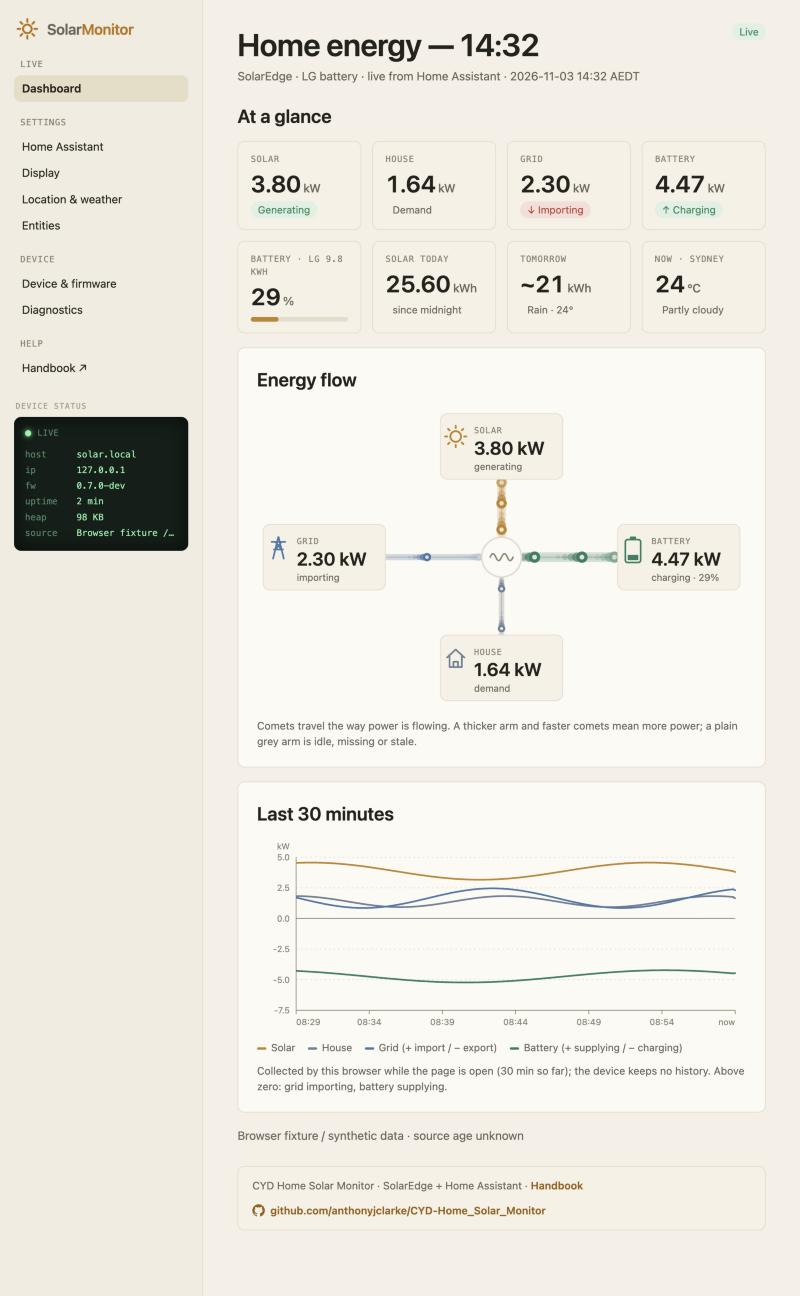
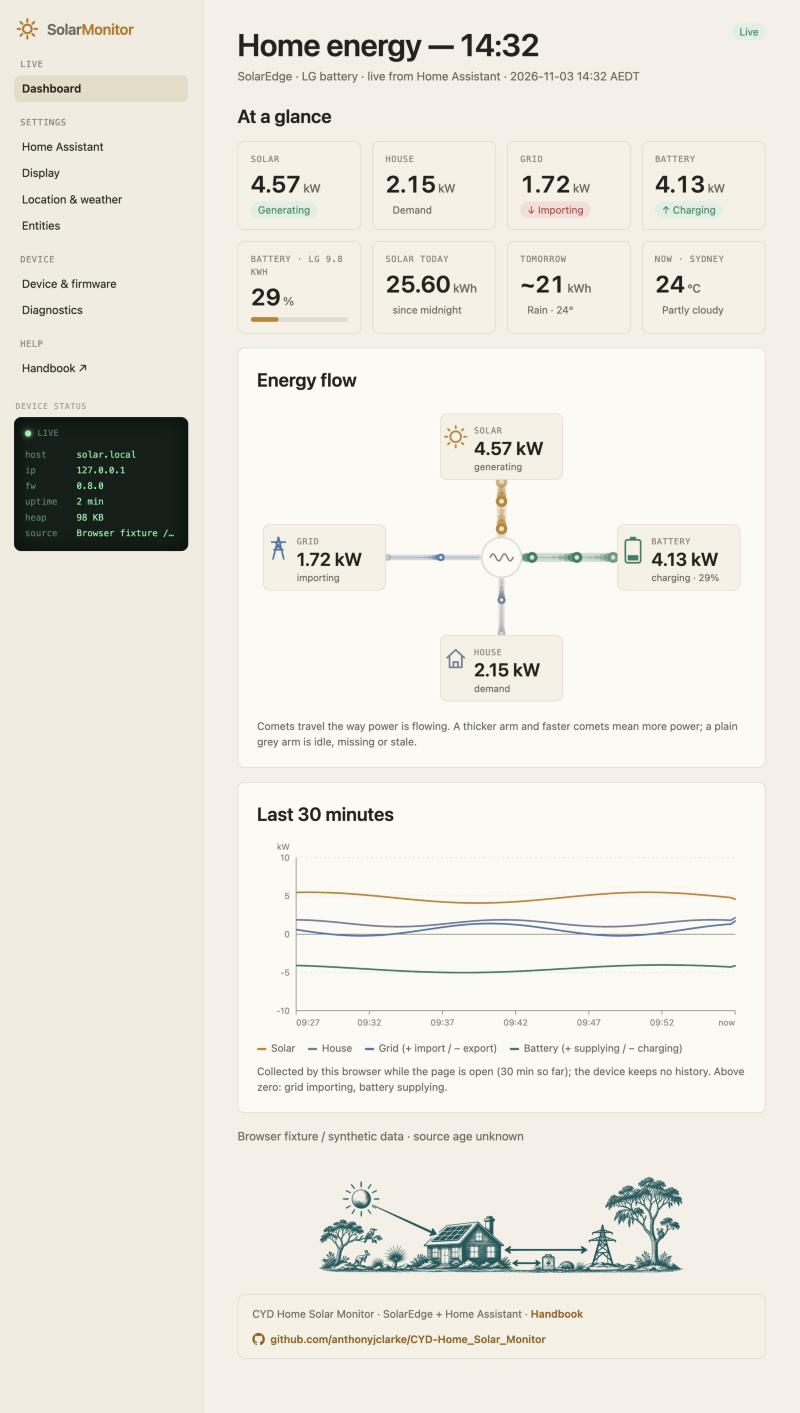
feat(webui): footer artwork and docs sweep; cut v0.8.0
- Australian solar footer illustration served from web/assets with a versioned, cached URL
- Reduce Motion behaviour documented; docs, checklist and all web screenshots refreshed
- Version 0.8.0

diff --git a/docs/index.html b/docs/index.html
@@ -84,7 +84,7 @@ figcaption{color:var(--muted);font-size:14px;margin-top:8px;max-width:780px}
 <main>
 <header class="hero">
 <h1>CYD Home Solar Monitor</h1>
-<p>Handbook for firmware <code>0.7.0</code>: installing, configuring, and reading the 2.8-inch ESP32-2432S028R (CYD) home energy display. The panel shows solar, house, grid and battery power for a <b>SolarEdge</b> inverter and battery, read from <b>Home Assistant</b> through the <b>SolarEdge Modbus Multi</b> integration. It was built on a SolarEdge SE6000 with an LG 9.8 kWh battery.</p>
+<p>Handbook for firmware <code>0.8.0</code>: installing, configuring, and reading the 2.8-inch ESP32-2432S028R (CYD) home energy display. The panel shows solar, house, grid and battery power for a <b>SolarEdge</b> inverter and battery, read from <b>Home Assistant</b> through the <b>SolarEdge Modbus Multi</b> integration. It was built on a SolarEdge SE6000 with an LG 9.8 kWh battery.</p>
 <p>Source: <a href="https://github.com/anthonyjclarke/CYD-Home_Solar_Monitor">github.com/anthonyjclarke/CYD-Home_Solar_Monitor</a> · Installer: <a href="https://anthonyjclarke.github.io/CYD-Home_Solar_Monitor/">anthonyjclarke.github.io/CYD-Home_Solar_Monitor</a></p>
 </header>
 
@@ -272,8 +272,8 @@ pio device monitor -b 115200 --port /dev/cu.usbserial-10</pre>
 <h2 id="browser">Browser dashboard</h2>
 <p>Open <code>http://solar.local/</code> from any device on the home network. The page follows your system's light or dark setting and refreshes every three seconds. The sidebar groups the sections: <b>Live</b> (Dashboard), <b>Settings</b> (Home Assistant, Display, Location &amp; weather, Entities) and <b>Device</b> (Device &amp; firmware, Diagnostics) and <b>Help</b>, which opens this handbook from the device itself at <code>http://solar.local/guide/</code>, so it works without internet. A banner at the foot of the dashboard links to this project on GitHub. Beneath the sidebar, the <b>Device status</b> panel shows a status light (green live, amber waiting or demo, red disconnected) with the address, firmware, uptime, free memory and the source message.</p>
 <figure class="shot"><img src="images/webui-dashboard.jpg" alt="Browser dashboard"><figcaption><b>At a glance.</b> Tiles for solar, house, grid and battery power, battery level (bar coloured like the panel gauge), solar today, tomorrow's forecast and the current weather. Pills give direction: <span style="color:#C0392B">↓ Importing</span>, <span style="color:#1F8A5B">↑ Exporting</span>, <span style="color:#1F8A5B">↑ Charging</span>, ↓ Supplying house. Green and red are kept for meaning, as in SpendAnalysis; amber is only used for controls.</figcaption></figure>
-<figure class="shot"><img src="images/webui-flow.jpg" alt="Energy flow diagram with comets on each arm"><figcaption><b>Energy flow.</b> Solar, grid, battery and house around the inverter hub. Comets travel each arm the way power flows; the arm gets thicker and its comets faster and larger as power rises. A plain grey arm is idle, missing or stale. The hub's sine wave marks the inverter, and the battery icon fills to the battery level.</figcaption></figure>
-<figure class="shot"><img src="images/webui-chart.jpg" alt="Last 30 minutes chart and the dashboard footer"><figcaption><b>Last 30 minutes</b> charts solar, house, grid (+ import / − export) and battery (+ supplying / − charging) against a kW Y axis and an X axis of local clock times every 5 minutes, ending at <i>now</i>. The solid line is zero: above it the grid is importing and the battery supplying. Samples are collected by this browser while the page is open; the device keeps no history, so the chart fills from the right. The banner beneath links to this handbook and to the project on GitHub.</figcaption></figure>
+<figure class="shot"><img src="images/webui-flow.jpg" alt="Energy flow diagram with comets on each arm"><figcaption><b>Energy flow.</b> Solar, grid, battery and house around the inverter hub. Comets travel each arm the way power flows; the arm gets thicker and its comets faster and larger as power rises. A plain grey arm is idle, missing or stale. The hub's sine wave marks the inverter, and the battery icon fills to the battery level. If your device has <b>Reduce Motion</b> turned on (iPhone and iPad: Settings → Accessibility → Motion; Mac: System Settings → Accessibility → Display; Windows and Android have an equivalent), the comets stay still, parked near the end of each pipe and pointing the way power flows. That is deliberate.</figcaption></figure>
+<figure class="shot"><img src="images/webui-chart.jpg" alt="Last 30 minutes chart and the dashboard footer"><figcaption><b>Last 30 minutes</b> charts solar, house, grid (+ import / − export) and battery (+ supplying / − charging) against a kW Y axis and an X axis of local clock times every 5 minutes, ending at <i>now</i>. The solid line is zero: above it the grid is importing and the battery supplying. Samples are collected by this browser while the page is open; the device keeps no history, so the chart fills from the right. Beneath it sits a decorative illustration of the system (sun, rooftop panels, house, grid and battery, with Australian plants and wildlife), then a banner linking to this handbook and to the project on GitHub.</figcaption></figure>
 <figure class="shot"><img src="images/webui-diagnostics.jpg" alt="Diagnostics table"><figcaption><b>Diagnostics.</b> Every reading with its entity, value, validity, freshness, and received and reported ages, plus the raw status JSON.</figcaption></figure>
 <p><b>Device &amp; firmware</b> shows the firmware version, address, local time, uptime and free memory, and has <b>Restart device</b> and <b>Reset Wi-Fi</b> (clears Wi-Fi only; Home Assistant settings stay). <b>Firmware update</b> takes the app <code>firmware.bin</code> only; the device pauses Home Assistant reads while uploading and restarts when done.</p>
 
@@ -290,7 +290,7 @@ pio device monitor -b 115200 --port /dev/cu.usbserial-10</pre>
 <tr><td>Dim overnight</td><td>on</td><td>Uses Night starts / Night ends (hours 0–23). Equal hours disable it.</td></tr>
 <tr><td>Solar energy today</td><td>blank</td><td>Optional <code>sensor.</code> in kWh/Wh/MWh, read every 60 s, shown while received within 10 min.</td></tr>
 <tr><td>Solar forecast tomorrow</td><td>blank</td><td>Optional <code>sensor.</code> in kWh; same timing.</td></tr>
-<tr><td>Panel layout</td><td>Centre flow (light)</td><td>Or Cards (dark). Applies immediately.</td></tr>
+<tr><td>Layout</td><td>Centre flow (light)</td><td>Or Cards (dark), under Settings → Display. Applies immediately.</td></tr>
 <tr><td>Battery label</td><td><code>LG 9.8 kWh</code></td><td>Up to 14 characters; shown on the cards layout and in the browser.</td></tr>
 </tbody></table>
 <figure class="shot"><img src="images/webui-location.jpg" alt="Location, timezone and weather settings"><figcaption>Settings → Location &amp; weather.</figcaption></figure>
@@ -348,6 +348,7 @@ pio device monitor -b 115200 --port /dev/cu.usbserial-10</pre>
 <tr><td><code>solar.local</code> doesn't open</td><td>The client may not support mDNS; tap the panel and use the IP address.</td></tr>
 <tr><td><code>[WEATHER] error=http-or-transport</code></td><td>No internet, or the TLS check failed; it retries every five minutes.</td></tr>
 <tr><td>Clock wrong by hours</td><td>Check the POSIX TZ rule in the location settings.</td></tr>
+<tr><td>Energy flow on the web page doesn't move</td><td>The device has Reduce Motion turned on, so the comets are deliberately still. Turn it off in the device's accessibility settings if you want the animation.</td></tr>
 <tr><td>Taps land in the wrong place</td><td>Recalibrate: tap to open setup, hold for two seconds.</td></tr>
 </tbody></table>
 

diff --git a/src/web/web_page.h b/src/web/web_page.h
@@ -67,7 +67,9 @@ code{font:12.5px ui-monospace,Menlo,monospace;background:var(--tile);padding:1px
 details summary{cursor:pointer;color:var(--accent-ink);margin-top:14px}pre{font:12px ui-monospace,Menlo,monospace;white-space:pre-wrap;overflow-wrap:anywhere;color:var(--muted)}
 #message{position:fixed;right:22px;bottom:22px;background:var(--ink);color:var(--bg);padding:11px 16px;border-radius:9px;display:none;max-width:420px;z-index:5;box-shadow:0 6px 24px rgba(0,0,0,.18)}
 .hidden{display:none}
-.foot{display:flex;justify-content:space-between;align-items:center;gap:12px;flex-wrap:wrap;margin:28px 0 0;padding:14px 18px;border:1px solid var(--line);border-radius:9px;background:var(--tile);color:var(--muted);font-size:13.5px}
+.art{margin:28px 0 0}.art img{display:block;width:min(100%,480px);height:auto;margin:0 auto}
+@media(prefers-color-scheme:dark){.art img{filter:invert(.82) hue-rotate(180deg)}}
+.foot{display:flex;justify-content:space-between;align-items:center;gap:12px;flex-wrap:wrap;margin:4px 0 0;padding:14px 18px;border:1px solid var(--line);border-radius:9px;background:var(--tile);color:var(--muted);font-size:13.5px}
 .foot a{color:var(--accent-ink);font-weight:600;text-decoration:none;display:inline-flex;align-items:center;gap:7px}.foot a:hover{text-decoration:underline}
 @media(max-width:980px){.tiles{grid-template-columns:repeat(2,minmax(0,1fr))}}
 @media(max-width:760px){.app{display:block}aside{position:static;height:auto;border-right:0;border-bottom:1px solid var(--line);padding:14px 16px}
@@ -128,6 +130,7 @@ main{padding:20px 16px 60px}h1{font-size:30px}.row{grid-template-columns:1fr}.ti
 <div class="legend"><span><i style="background:var(--solar)"></i>Solar</span><span><i style="background:var(--house)"></i>House</span><span><i style="background:var(--grid)"></i>Grid (+ import / &minus; export)</span><span><i style="background:var(--battery)"></i>Battery (+ supplying / &minus; charging)</span></div>
 <p class="note" id="trendNote">Collected by this browser while the page is open; the device keeps no history.</p></div>
 <p class="cap" id="sourceStatus">Waiting for device status&hellip;</p>
+<footer class="art"><img src="/assets/solar-footer.webp?v=1" alt="" aria-hidden="true" width="1600" height="533" loading="lazy" decoding="async"></footer>
 <div class="foot"><span>CYD Home Solar Monitor &middot; SolarEdge + Home Assistant &middot; <a href="/guide/" target="_blank" rel="noopener">Handbook</a></span>
 <a href="https://github.com/anthonyjclarke/CYD-Home_Solar_Monitor" target="_blank" rel="noopener"><svg width="16" height="16" viewBox="0 0 16 16" aria-hidden="true" fill="currentColor"><path d="M8 0C3.58 0 0 3.58 0 8c0 3.54 2.29 6.53 5.47 7.59.4.07.55-.17.55-.38v-1.33c-2.23.48-2.7-1.07-2.7-1.07-.36-.92-.89-1.17-.89-1.17-.73-.5.06-.49.06-.49.8.06 1.23.83 1.23.83.72 1.22 1.87.87 2.33.66.07-.52.28-.87.5-1.07-1.78-.2-3.65-.89-3.65-3.95 0-.87.31-1.59.82-2.15-.08-.2-.36-1.02.08-2.12 0 0 .67-.21 2.2.82A7.6 7.6 0 0 1 8 3.9c.68 0 1.36.09 2 .27 1.53-1.04 2.2-.82 2.2-.82.44 1.1.16 1.92.08 2.12.51.56.82 1.28.82 2.15 0 3.07-1.87 3.75-3.66 3.95.29.25.54.73.54 1.48v2.2c0 .21.15.46.55.38A8 8 0 0 0 16 8c0-4.42-3.58-8-8-8z"/></svg>github.com/anthonyjclarke/CYD-Home_Solar_Monitor</a></div>
 </section>

diff --git a/tools/embed_docs.py b/tools/embed_docs.py
@@ -1,7 +1,8 @@
 # PlatformIO pre-build script: embeds docs/index.html and the images it uses
-# into src/web/handbook_data.h, served by the device at /guide/.
-# Text assets are gzipped; JPEGs are stored as-is. The header is generated
-# (gitignored) and only rewritten when its content changes.
+# (served at /guide/) and every file in web/assets/ (served at /assets/) into
+# src/web/handbook_data.h. Text assets are gzipped; images that are already
+# compressed are stored as-is. The header is generated (gitignored) and only
+# rewritten when its content changes.
 import gzip
 import re
 from pathlib import Path
@@ -13,16 +14,20 @@ except NameError:
     ROOT = Path(__file__).resolve().parent.parent
 
 DOCS = ROOT / "docs"
+WEB_ASSETS = ROOT / "web" / "assets"
 OUT = ROOT / "src" / "web" / "handbook_data.h"
-TYPES = {".html": "text/html", ".svg": "image/svg+xml", ".png": "image/png", ".jpg": "image/jpeg"}
+TYPES = {".html": "text/html", ".svg": "image/svg+xml", ".png": "image/png", ".jpg": "image/jpeg", ".webp": "image/webp"}
+PACKED = {".html", ".svg"}
 
 
 def assets():
     page = (DOCS / "index.html").read_text(encoding="utf-8")
     names = sorted(set(re.findall(r'src="(images/[\w.-]+)"', page)))
-    yield "index.html", (DOCS / "index.html").read_bytes()
+    yield "/guide/", "index.html", (DOCS / "index.html").read_bytes()
     for name in names:
-        yield name, (DOCS / name).read_bytes()
+        yield "/guide/" + name, name, (DOCS / name).read_bytes()
+    for path in sorted(WEB_ASSETS.glob("*")) if WEB_ASSETS.is_dir() else []:
+        yield "/assets/" + path.name, path.name, path.read_bytes()
 
 
 def main():
@@ -30,13 +35,12 @@ def main():
              "#include <Arduino.h>", "", "namespace handbook {",
              "struct Asset { const char* path; const char* type; const uint8_t* data; size_t size; bool gzip; };"]
     table = []
-    for i, (name, data) in enumerate(assets()):
+    for i, (url, name, data) in enumerate(assets()):
         ext = Path(name).suffix
-        packed = ext != ".jpg" and ext != ".png"
+        packed = ext in PACKED
         body = gzip.compress(data, 9, mtime=0) if packed else data
         lines.append("const uint8_t a%d[] PROGMEM = {%s};" % (i, ",".join(str(b) for b in body)))
-        table.append('{"/guide/%s","%s",a%d,%d,%s}' % ("" if name == "index.html" else name, TYPES[ext], i, len(body),
-                                                       "true" if packed else "false"))
+        table.append('{"%s","%s",a%d,%d,%s}' % (url, TYPES[ext], i, len(body), "true" if packed else "false"))
     lines.append("const Asset assets[] = {%s};" % ",".join(table))
     lines.append("constexpr size_t count = sizeof(assets) / sizeof(assets[0]);")
     lines.append("}  // namespace handbook")

diff --git a/tools/preview_server.py b/tools/preview_server.py
@@ -20,7 +20,7 @@ CONFIG = {
 
 class Handler(BaseHTTPRequestHandler):
     def send(self, value, content_type="application/json", code=200):
-        data = json.dumps(value).encode() if content_type == "application/json" else value.encode()
+        data = json.dumps(value).encode() if content_type == "application/json" else value if isinstance(value, bytes) else value.encode()
         self.send_response(code)
         self.send_header("Content-Type", content_type)
         self.send_header("Cache-Control", "no-store")
@@ -51,7 +51,7 @@ class Handler(BaseHTTPRequestHandler):
                                  "unit": "%" if i == 4 else "W", "receivedAgeSeconds": 1})
             return self.send({"demo": False, "complete": True, "reportTimeKnown": False,
                               "skewSeconds": 0, "weather": {"configured": True, "place": CONFIG["place"], "valid": True, "fresh": True, "nowC": 23.5, "nowCode": 2, "tomorrowMaxC": 24, "tomorrowCode": 61, "ageSeconds": 60}, "localTime": "2026-11-03 14:32 AEDT", "totals": {"today": {"entity": CONFIG["today"], "value": 25.6, "valid": True, "fresh": True}, "tomorrow": {"entity": CONFIG["forecast"], "value": 21, "valid": True, "fresh": True}}, "skewLimitSeconds": 10, "battery": CONFIG["battery"], "message": "Browser fixture / synthetic data",
-                              "project": "CYD-Home-Solar-Monitor", "version": "0.8.0-dev",
+                              "project": "CYD-Home-Solar-Monitor", "version": "0.8.0",
                               "ip": "127.0.0.1", "uptimeSeconds": 120, "freeHeap": 100000,
                               "readings": readings})
         if self.path.startswith("/images/"):
@@ -60,6 +60,8 @@ class Handler(BaseHTTPRequestHandler):
                             "night-preview.svg", "stale-preview.svg", "setup-preview.svg"}:
                 return self.send({"error": "Not found"}, code=404)
             return self.send((ROOT / "docs/images" / name).read_text(), "image/svg+xml")
+        if self.path.split("?")[0] == "/assets/solar-footer.webp":
+            return self.send((ROOT / "web/assets/solar-footer.webp").read_bytes(), "image/webp")
         self.send({"error": "Not found"}, code=404)
 
     def do_POST(self):

diff --git a/src/web/monitor_web.cpp b/src/web/monitor_web.cpp
@@ -219,10 +219,13 @@ void begin() {
         if(!uploadOK) { error(updateError.isEmpty()?"No firmware uploaded":updateError.c_str());return; }
         server.send(200,"application/json","{\"updated\":true}");requestReboot();
     },uploadChunk);
-    // Handbook from docs/, embedded at build time by tools/embed_docs.py.
+    // Handbook (docs/) and web assets (web/assets/), embedded at build time by
+    // tools/embed_docs.py. The page links /assets/ files with a ?v= version, so
+    // browsers may keep them; the handbook changes with each firmware.
     for (size_t i=0;i<handbook::count;++i) server.on(handbook::assets[i].path,HTTP_GET,[i]{
         const auto& a=handbook::assets[i];
-        server.sendHeader("Cache-Control","no-cache");  // Content changes with each firmware.
+        const bool versioned=strncmp(a.path,"/assets/",8)==0;
+        server.sendHeader("Cache-Control",versioned ? "public, max-age=31536000, immutable" : "no-cache");
         if (a.gzip) server.sendHeader("Content-Encoding","gzip");
         server.send_P(200,a.type,reinterpret_cast<PGM_P>(a.data),a.size);
     });

diff --git a/tools/render_preview.cpp b/tools/render_preview.cpp
@@ -43,7 +43,7 @@ int main(int argc,char**argv) {
     SvgCanvas c;
     const char* head="<svg xmlns='http://www.w3.org/2000/svg' width='960' height='720' viewBox='0 0 320 240'><style>text{font-family:DejaVu Sans,sans-serif}</style>\n";
     if(argc>1&&std::string(argv[1])=="boot") {  // boot <layout>: sample start-up screen after Wi-Fi connects.
-        ui::BootView b;b.layout=argc>2?static_cast<ui::Layout>(std::atoi(argv[2])):ui::Centre;b.version="v0.7.0";
+        ui::BootView b;b.layout=argc>2?static_cast<ui::Layout>(std::atoi(argv[2])):ui::Centre;b.version="v0.8.0";
         b.rows[0]={"Wi-Fi","Connected - HomeNetwork",ui::BootOk};b.rows[1]={"IP address","192.168.1.95",ui::BootInfo};
         b.rows[2]={"Web page","http://solar.local/",ui::BootInfo};b.rows[3]={"Signal","-37 dBm (excellent)",ui::BootInfo};
         b.rows[4]={"Home Asst","192.168.1.254:8123",ui::BootInfo};b.rows[5]={"Clock","17:08 AEDT - synced",ui::BootOk};

diff --git a/include/config.h b/include/config.h
@@ -1,7 +1,7 @@
 #pragma once
 
 #define PROJECT_NAME "CYD-Home-Solar-Monitor"
-#define FIRMWARE_VERSION "0.8.0-dev"
+#define FIRMWARE_VERSION "0.8.0"
 #define IMPROV_SETUP_ENABLED 1
 #define IMPROV_DEVICE_PREFIX "CYD-Solar"
 #define APP_DEFAULT_DEBUG_LEVEL 3

diff --git a/docs/HARDWARE_VALIDATION.md b/docs/HARDWARE_VALIDATION.md
@@ -1,6 +1,6 @@
 # Hardware Validation
 
-Firmware `0.7.0`. Build and portable model checks pass, and the firmware runs on the owner's panel with live Home Assistant data. Unchecked items below still need a check on a real CYD.
+Firmware `0.8.0`. Build and portable model checks pass, and the firmware runs on the owner's panel with live Home Assistant data. Unchecked items below still need a check on a real CYD.
 
 ---
 
@@ -24,8 +24,8 @@ The browser fixture uses synthetic data. Its success does not validate device au
 
 - [ ] Fresh USB flash starts with readable, correctly coloured 320 × 240 output.
 - [ ] Panel colours match `docs/images/flow-preview.png` (navy cards, not green); the palette is RGB332-exact.
-- [ ] Centre-flow layout matches `docs/images/centre-flow-preview.png`; chevrons move toward/away from the hub correctly for import/export and charge/supply.
-- [ ] Switching **Panel layout** in the browser changes the panel immediately and persists across restart.
+- [ ] Centre-flow layout matches `docs/images/centre-flow-preview.png`; comets move toward/away from the hub correctly for import/export and charge/supply, smoothly at 20 fps.
+- [ ] Switching **Settings → Display → Layout** in the browser changes the panel immediately and persists across restart.
 - [x] Boot screen shows Wi-Fi, IP, signal, HA and clock, and closes about 6.4 s after boot when Wi-Fi connects; readings are live by then (first poll at 2 s).
 - [ ] Boot screen readable by eye; a tap skips it; with Wi-Fi unavailable it closes at 15 s onto the Wi-Fi setup page.
 - [ ] Setup page refreshes once per second without visible flashing.
@@ -63,6 +63,7 @@ The browser fixture uses synthetic data. Its success does not validate device au
 - [ ] Place search fills latitude, longitude, timezone and POSIX rule; saving changes the clock immediately.
 - [x] `[WEATHER]` shows HTTP 200 after boot (fetch ≈7.6 s, no watchdog reset). Still to check: repeats about every 30 minutes; icons match conditions.
 - [ ] Weather survives an HA outage and clears when the location is cleared.
+- [ ] Web page stays responsive while the panel animates at 20 fps (page loads typically 0.3–0.7 s).
 - [x] Free heap healthy across a weather TLS fetch (`min_heap` 53 KB, idle heap ~114–122 KB). Still to check over hours.
 - [ ] Battery gauge fill and colour match state of energy (green ≥ 50%, amber ≥ 20%, red below).
 - [ ] Daily solar total matches the HA Energy dashboard and resets at local midnight.
@@ -78,9 +79,9 @@ The browser fixture uses synthetic data. Its success does not validate device au
 - [ ] Updating a 0.1.0 device preserves its token, URL and first five entity mappings and supplies the new DC default.
 - [ ] Saving migrated settings retains all six mappings after a subsequent restart.
 - [ ] Blank token preserves the saved value; explicit clear removes it.
-- [x] `solar.local` resolves on the Mac and the request-header guard returns 403 without the header. Still to check: `http://solar.local/` opens from an iPhone; browser changes work without a login and are refused without the `X-CYD-Request` header.
-- [ ] Panel matches `docs/images/centre-flow-preview.png`: SOLAR/GRID/BATTERY/HOUSE labels readable, no overlaps.
-- [ ] Web UI: flow-diagram arrows match real import/export and charge/supply; light/dark follow the browser; Save works from every settings section.
+- [x] `solar.local` resolves on the Mac and the request-header guard returns 403 without the header. `http://solar.local/` opens from an iPhone (owner, 04-11-2026). Still to check: browser changes work without a login and are refused without the `X-CYD-Request` header.
+- [x] Panel matches `docs/images/centre-flow-preview.png`: SOLAR/GRID/BATTERY/HOUSE labels readable, no overlaps, even pipe gaps (owner, 04-11-2026).
+- [ ] Web UI: flow-diagram comets match real import/export and charge/supply (still, by design, with Reduce Motion on); light/dark follow the browser; Save works from every settings section.
 - [ ] Night dimming follows Sydney time; touch restores brightness for a minute.
 - [ ] Wi-Fi reset preserves HA settings and returns to setup after restart.
 - [ ] Browser app update succeeds and preserves settings/calibration.
@@ -93,8 +94,8 @@ The browser fixture uses synthetic data. Its success does not validate device au
 
 ## Browser installer release
 
-- [ ] Create/configure the remote repository and Pages only when requested.
-- [ ] Build a credential-free CI release on a `v*` tag on `main`.
+- [x] Create/configure the remote repository and Pages only when requested.
+- [x] Build a credential-free CI release on a `v*` tag on `main` (v0.6.0, v0.7.0).
 - [ ] Fresh browser installation provisions Wi-Fi and reports the expected project identity.
 - [ ] Reconnecting recognises the same firmware and offers an update preserving NVS.
 

diff --git a/README.md b/README.md
@@ -4,7 +4,7 @@ A home energy-flow display for the 2.8″ ESP32 "Cheap Yellow Display" (ESP32-24
 
 It is built for a **SolarEdge inverter with a battery and energy meter**, read by **Home Assistant** through the **[SolarEdge Modbus Multi](https://github.com/WillCodeForCats/solaredge-modbus-multi)** integration. It was developed on a SolarEdge SE6000 with an LG 9.8 kWh battery. The panel shows Home Assistant's sensors, so without that setup it can only run in demo mode.
 
-Version `0.7.0` · [Install in your browser](https://anthonyjclarke.github.io/CYD-Home_Solar_Monitor/) · [Handbook](docs/index.html) · [Changelog](CHANGELOG.md)
+Version `0.8.0` · [Install in your browser](https://anthonyjclarke.github.io/CYD-Home_Solar_Monitor/) · [Handbook](docs/index.html) · [Changelog](CHANGELOG.md)
 
 | Centre flow (light, default)                                     | Cards (dark)                                     |
 |:----------------------------------------------------------------:|:------------------------------------------------:|
@@ -16,13 +16,14 @@ Both layouts show the same readings. Switch between them in the browser under **
 
 ## Features
 
-- **Two panel layouts.** Centre flow (light, the default) has the four flows meeting at the inverter, with moving arrows showing direction. Cards (dark) shows the same readings as four cards. Choose either in the web UI under **Settings → Display → Layout**.
+- **Two panel layouts.** Centre flow (light, the default) has the four flows meeting at the inverter, with comets travelling along each pipe the way power flows. Cards (dark) shows the same readings as four cards. Choose either in the web UI under **Settings → Display → Layout**.
 - **Battery at a glance.** A gauge filled to the state of energy turns amber below 50% and red below 20%. The status line says when it's a good time to use power.
 - **Optional extras:** today's solar kWh, tomorrow's solar forecast, and weather from Open-Meteo for a location you choose.
 - **Browser dashboard** at `http://solar.local/`, covering:
   - live tiles and an animated flow diagram;
   - a 30-minute trend chart;
-  - every setting, diagnostics and firmware update.
+  - every setting, diagnostics and firmware update;
+  - this project's handbook, served by the panel itself at `/guide/`.
 - **Honest readings.** Stale or missing values grey out and keep their last number instead of dropping to zero, and the status line gives the reason.
 - **Quality of life:**
   - a boot screen with the IP address, Wi-Fi signal and Home Assistant host;
@@ -130,9 +131,11 @@ The pills say which way power is going: green when you're exporting or charging,
 
 **Energy flow.** Each reading joins the inverter by a pipe, and comets travel the way power is flowing. A thicker pipe and faster comets mean more power, and a plain grey pipe means that reading is idle or stale. It's the quickest way to see where your solar is going: into the house, into the battery, or out to the grid.
 
+If your phone or computer has **Reduce Motion** turned on (on an iPhone: Settings → Accessibility → Motion), the comets stay still. That's deliberate: they sit near the end of each pipe, pointing the way power flows.
+
 **Last 30 minutes.** Solar, house, grid and battery are charted against clock time. Above the zero line, the grid is importing and the battery supplying; below it, you're exporting and charging. The chart is collected by your browser while the page is open, so it fills from the right. The panel itself keeps no history.
 
-The footer links to the handbook and to this repository.
+At the foot of the page there's a small illustration of the system, with Australian plants and wildlife, then links to the handbook and to this repository.
 
 ![Settings: Home Assistant connection, token and read interval](docs/images/webui-settings.jpg)
 

diff --git a/CLAUDE.md b/CLAUDE.md
@@ -6,7 +6,7 @@ ESP32-2432S028R (CYD 2.8″), ILI9341, landscape rotation `1` (USB right), no PS
 
 ## What it is
 
-`0.8.0-dev` (0.7.0 released). Energy-flow display (solar / home / grid / battery + SOC) that reads a SolarEdge SE6000 + LG battery **via Home Assistant's REST API** (`/api/states/<entity>`), never the inverter directly. A background FreeRTOS task polls six entities; the main loop renders, handles touch, web UI, OTA and Improv. Running on the owner's panel; open checks in `docs/HARDWARE_VALIDATION.md`.
+`0.8.0`. Energy-flow display (solar / home / grid / battery + SOC) that reads a SolarEdge SE6000 + LG battery **via Home Assistant's REST API** (`/api/states/<entity>`), never the inverter directly. A background FreeRTOS task polls six entities; the main loop renders, handles touch, web UI, OTA and Improv. Running on the owner's panel; open checks in `docs/HARDWARE_VALIDATION.md`.
 
 ---
 
@@ -73,7 +73,7 @@ ESP32-2432S028R (CYD 2.8″), ILI9341, landscape rotation `1` (USB right), no PS
 - Release images come only from CI on a `v*` tag on `main` matching `FIRMWARE_VERSION` with no suffix. Never put `firmware-merged.bin` in a manifest.
 - Improv is vendored in `lib/ImprovWiFi` – never add it to `lib_deps`. `improvTick()` must run at least every ~1 s.
 - Before the next release, clear *Tests owed* in `docs/WEB_INSTALLER.md`.
-- `src/web/handbook_data.h` is generated (gitignored) by the `pre:tools/embed_docs.py` script from `docs/index.html` and the images it references, served at `/guide/`. Keep doc images small: app flash is ~84% of the 1.79 MB slot.
+- `src/web/handbook_data.h` is generated (gitignored) by the `pre:tools/embed_docs.py` script from `docs/index.html` and the images it references, served at `/guide/`, plus every file in `web/assets/`, served at `/assets/<name>` with a one-year cache. When replacing an asset, bump its `?v=` in `web_page.h`. App flash is ~92% of the 1.79 MB slot, so keep new assets small.
 
 ## Style
 

diff --git a/CHANGELOG.md b/CHANGELOG.md
@@ -1,8 +1,21 @@
 # Changelog
 
-## [0.8.0-dev] 04-11-2026
+## [0.8.0] 04-11-2026
 
-No changes yet.
+### Added
+
+- Web dashboard footer artwork: an Australian solar illustration (sun to rooftop panels, house to grid, house to battery, native plants and wildlife) between the 30-minute chart and the footer links. It's decorative only (`alt=""`), shown centred at up to 480 px wide (full width on narrow phones), keeps its 3:1 shape, and is lightened in dark mode with a CSS filter.
+- `web/assets/` for static web files. `tools/embed_docs.py` embeds them at build time and the device serves them at `/assets/<name>`, with a one-year browser cache; the page adds `?v=` to the address, so a new version gets fetched. The transparent WebP is 112 KB; the PNG fallback in the handoff package (215 KB) is left out, since every current browser shows WebP. App flash is now 92%.
+
+### Changed
+
+- Documentation sweep:
+  - Reduce Motion explained in the handbook (energy flow caption and a troubleshooting row) and the README: with it on, the web comets stay still by design.
+  - Footer artwork described in the handbook and README.
+  - "Layout" setting named as in the web UI.
+  - Comets replace chevrons and arrows in the hardware checklist.
+  - Items the owner has verified are ticked: panel layout, iPhone access, CI releases.
+- Every web screenshot retaken for 0.8.0 with the footer artwork, including the README's full-page dashboard capture.
 
 ---
 

diff --git a/docs/WEB_INSTALLER.md b/docs/WEB_INSTALLER.md
@@ -8,9 +8,9 @@ It is built by `.github/workflows/firmware.yml`, which calls the shared workflow
 
 ## Status
 
-Releases: `v0.6.0` (first) and `v0.7.0`, both 04-11-2026. CI builds are green and the partitions are standard dual-OTA, unchanged between them.
+Releases: `v0.6.0` (first), `v0.7.0` and `v0.8.0`, all 04-11-2026. CI builds are green and the partitions are standard dual-OTA, unchanged between them.
 
-The firmware runs on the owner's panel, flashed over USB from PlatformIO, not from the installer. The installer smoke test (RUNBOOK 5a) has not been run yet: a fresh install from the live page, Improv **Configure Wi-Fi**, then **Connect** again showing "Connected to CYD-Home-Solar-Monitor 0.7.0". `v0.7.0` was released with these tests still owed, at the owner's request.
+The firmware runs on the owner's panel, flashed over USB from PlatformIO, not from the installer. The installer smoke test (RUNBOOK 5a) has not been run yet: a fresh install from the live page, Improv **Configure Wi-Fi**, then **Connect** again showing "Connected to CYD-Home-Solar-Monitor 0.8.0". `v0.7.0` and `v0.8.0` were released with these tests still owed, at the owner's request.
 
 ---
 
